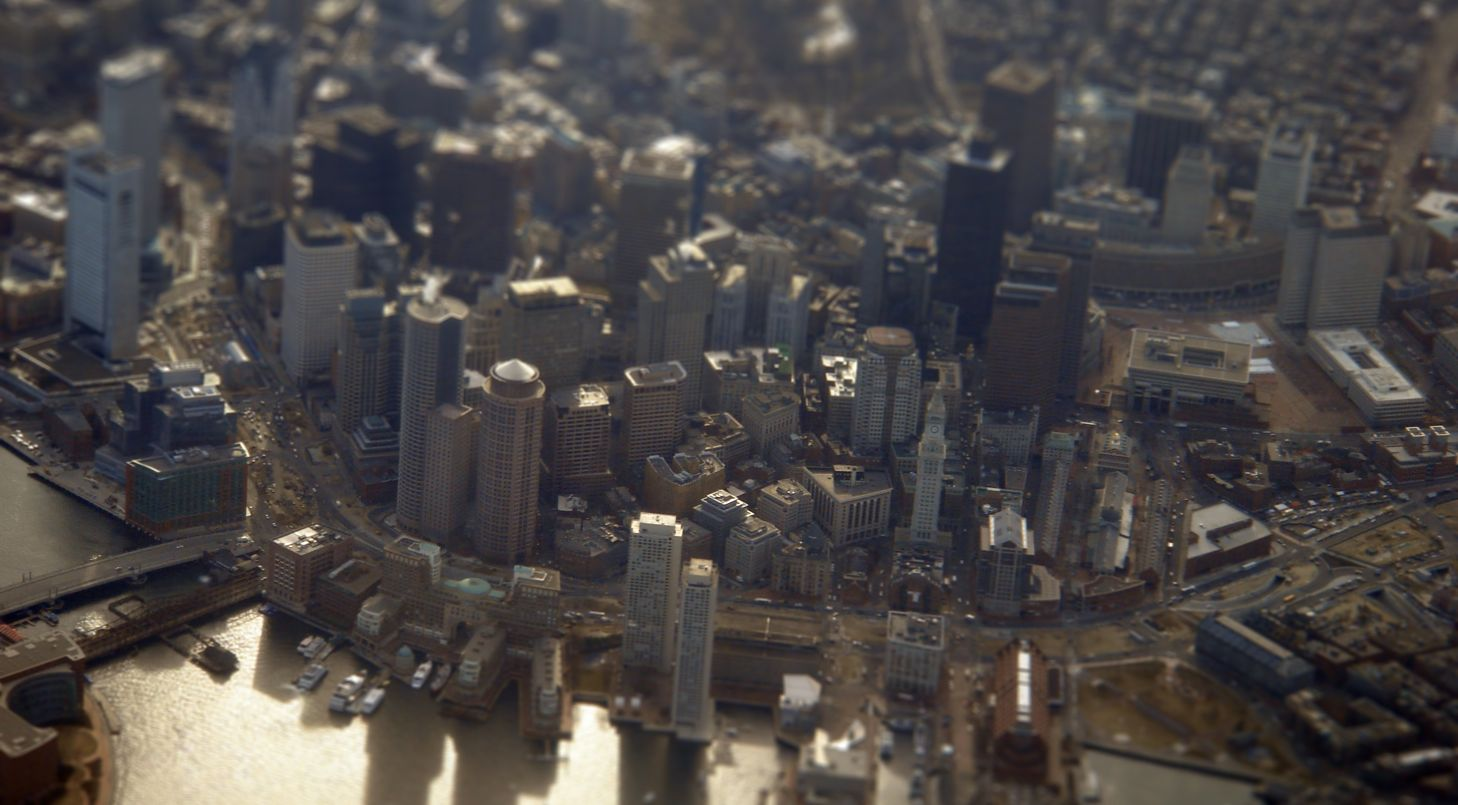
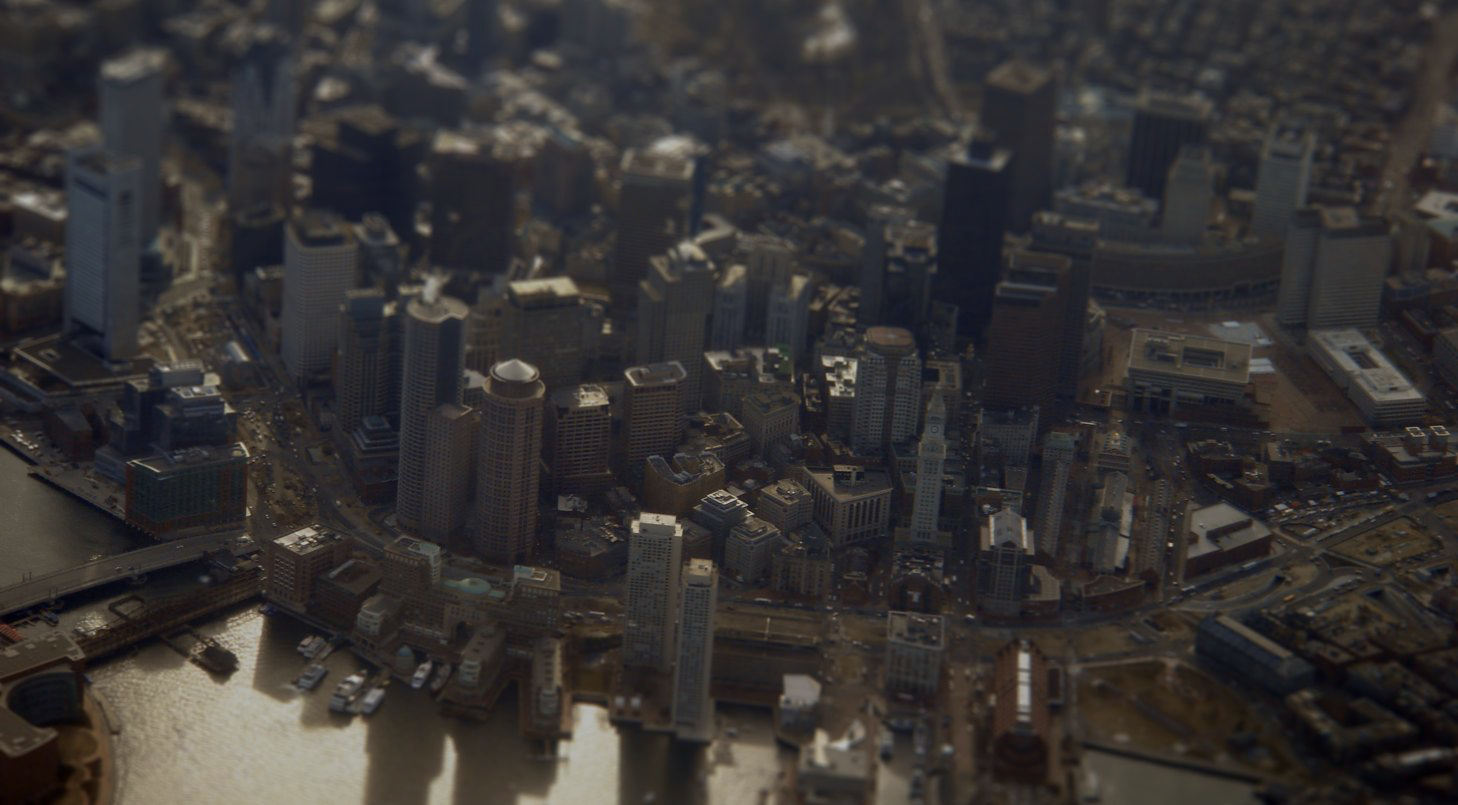
darken boston image a bit and adjust header padding

diff --git a/css/custom.css b/css/custom.css
@@ -4,7 +4,8 @@
 }
 
 .header-intro-wrap {
-  padding-bottom: 100px;
+  padding-bottom: 110px;
+  padding-top: 110px;
   text-align: center;
 }
 
